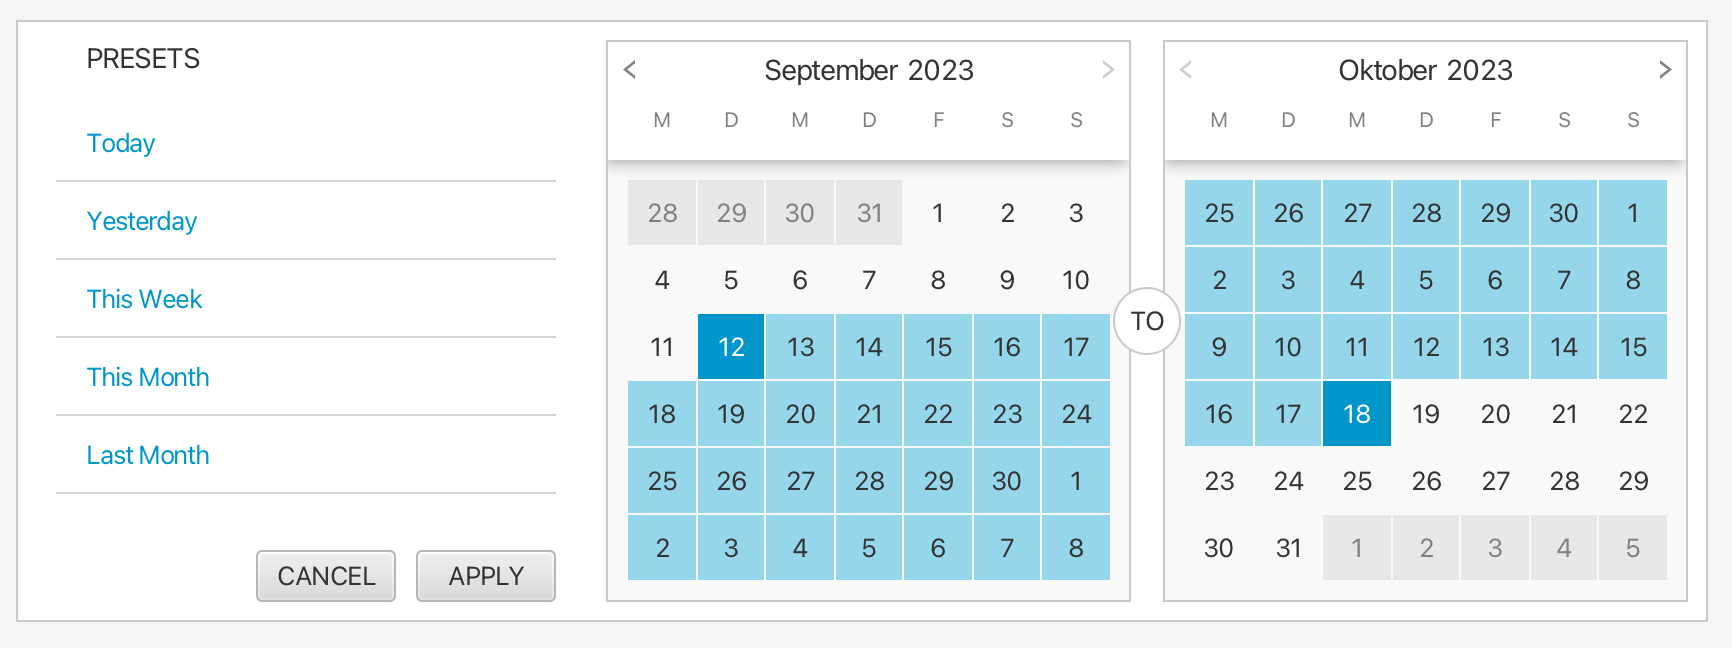
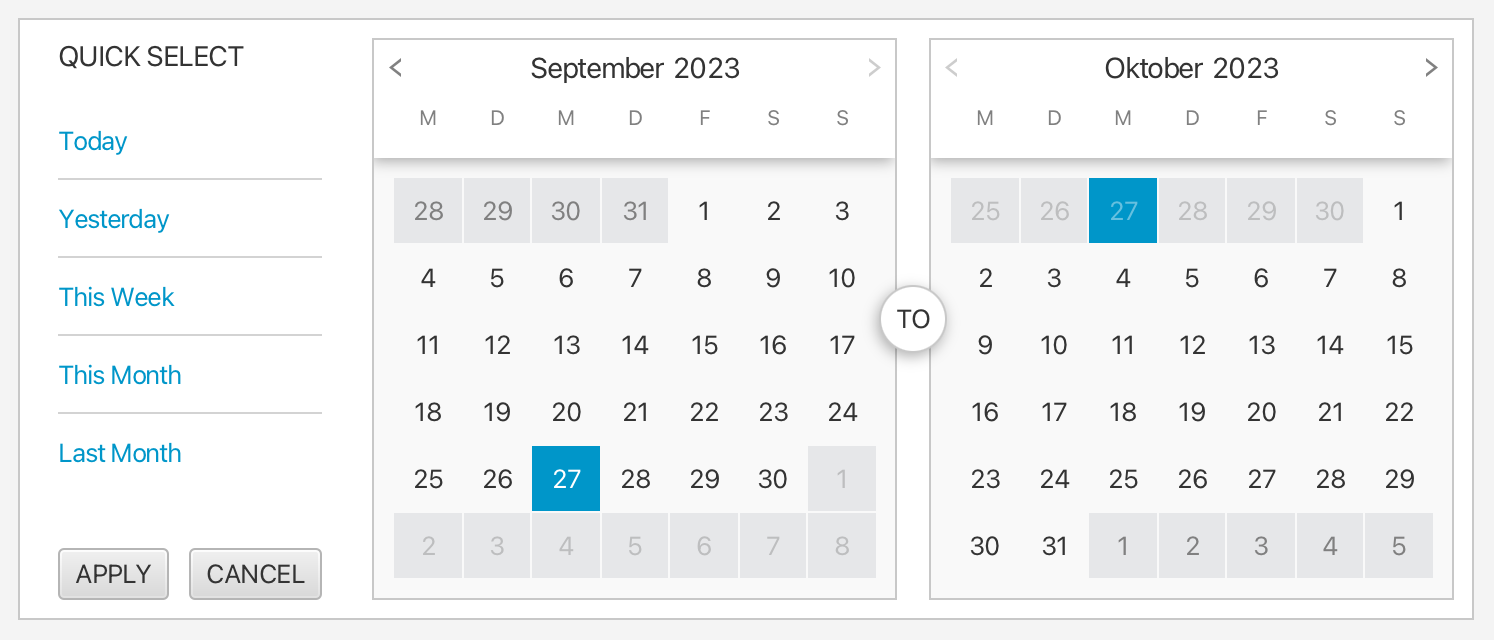
Updated the readme.md file.

diff --git a/README.md b/README.md
@@ -8,15 +8,39 @@
 
 ## CalendarView
 
-A nice UI for displaying the month of a year.
+A nice UI for displaying the month of a year. The view is highly configurable and allows specifying
+a latest and an earliest date for selection purposes. The days of the previous or the next month can either
+be shown or hidden. When clicking on the month the user will be presented with a custom view for quickly
+selecting a different month. The same happens when clicking on the year. The calendar view uses a 
+selection model which can work in three ways: single date selection, multiple date selection, or date range
+selection. Last but not least, the layout of the header can be changed, so that the month and year labels
+are either left, center, or right aligned.
 
 ![CalendarView](gemsfx/docs/calendar-view.png)
 
 ## CalendarPicker
 
-A date picker control that uses the calendar view of GemsFX.
+A date picker control that uses the calendar view of GemsFX. The field is editable to the
+user can also enter the date via keyboard.
 
 ![CalendarPicker](gemsfx/docs/calendar-picker.png)
+
+## DateRangeView
+
+A view that allows the user to specify a date range. The view supports defining a couple of presets
+for quick range selection, e.g. "last week".
+
+![DateRangeView](gemsfx/docs/date-range-view.png)
+
+## DateRangePicker
+
+A picker that allows the user to specify a date range via the date range view. The picker supports
+two different layouts (small, big). The picker shows the selected range and also a name for the range, 
+which is either derived from the name of a selected preset or simply says something like "custom range".
+
+![DateRangePicker](gemsfx/docs/date-range-picker-small.png)
+![DateRangePicker](gemsfx/docs/date-range-picker-big.png)
+![DateRangePicker](gemsfx/docs/date-range-picker-expanded.png)
 
 ## YearView
 
